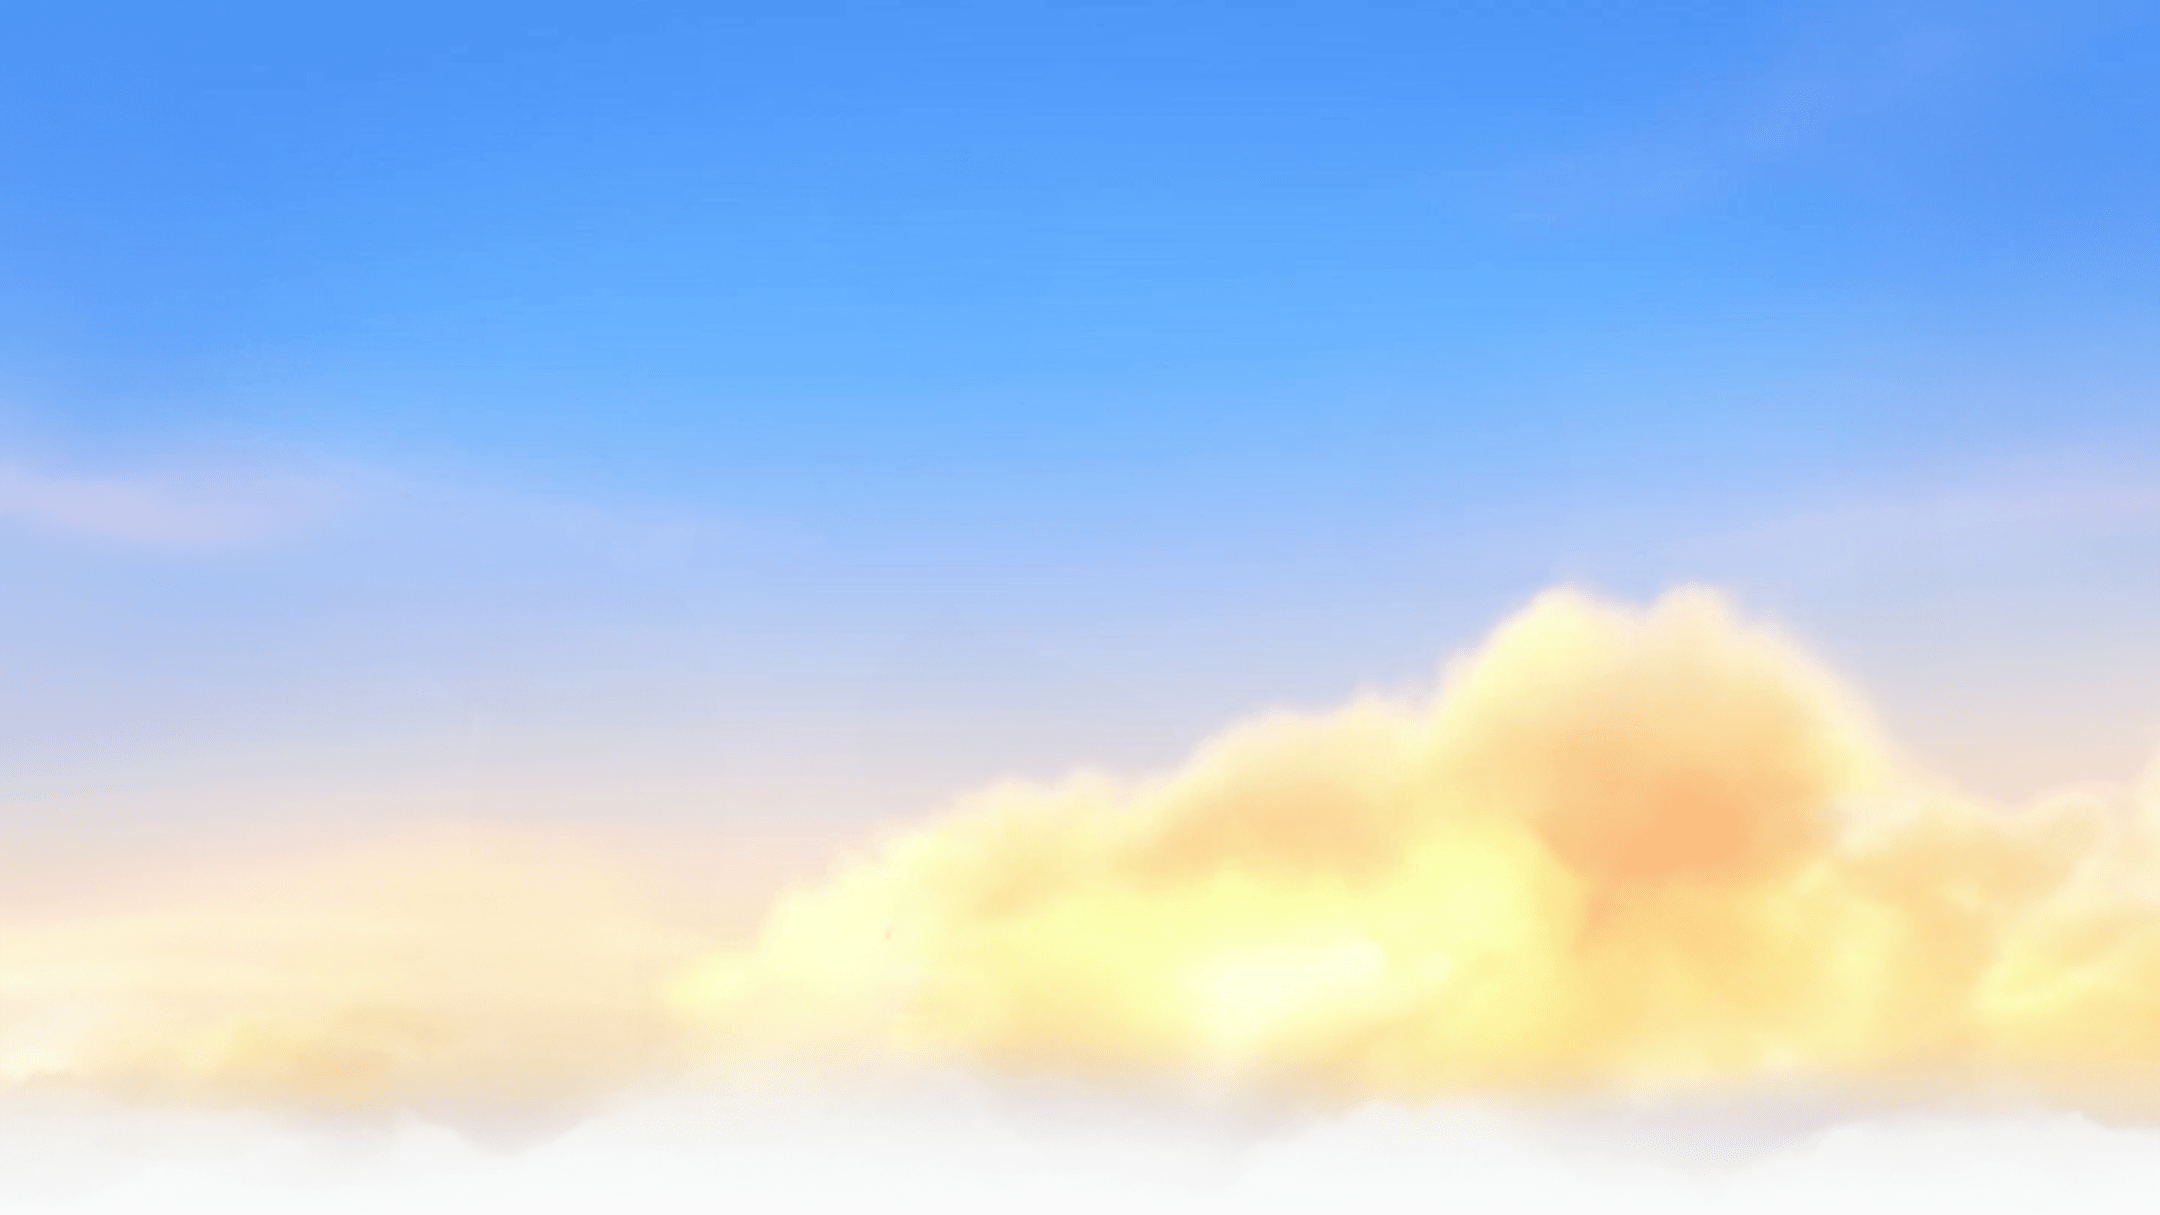
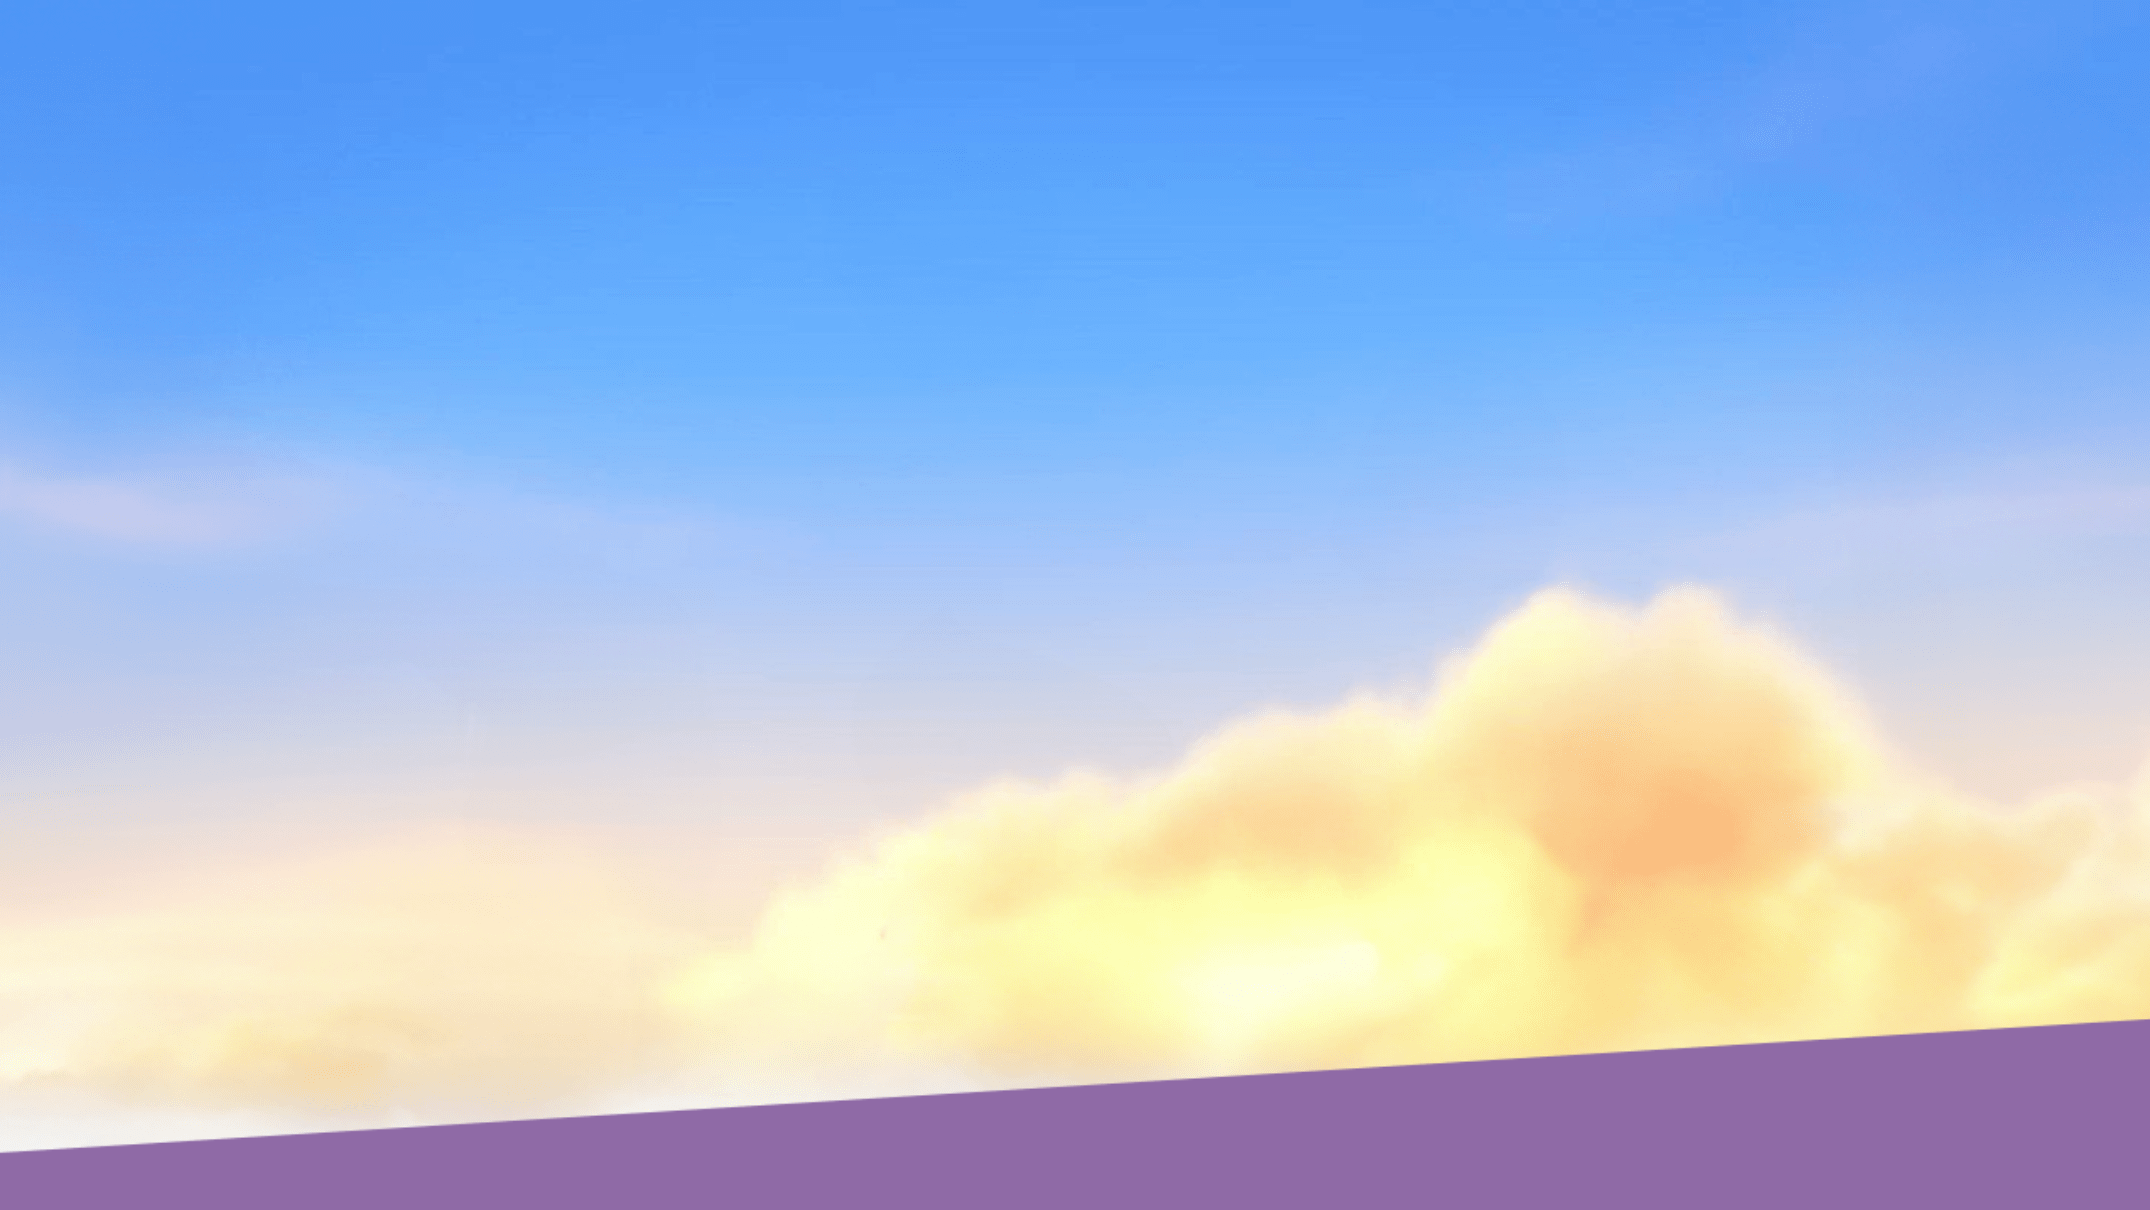
menu, fondos en imagenes

Changed region(s): [[0.0, 0.8256, 1.0, 1.0]]

diff --git a/TP4/EntregaFinal/css/main.css b/TP4/EntregaFinal/css/main.css
@@ -8,55 +8,53 @@ main{
     height: 56.25vw;
     background-image: url(../img/Fondo1x2.png);
     background-repeat: no-repeat;
-    background-size: 120%;
-    background-position-y: 25px;
-    background-position-x: -220px;
+    background-size: cover;
 }
 
 #conoce-a-spidey{
-    height: 33vw; 
     width: 100%;
+    background-image: url(../img/fondoDuende.png);
+    background-repeat: no-repeat;
+    background-size: cover;
+    display: flex;
+    flex-direction: row;
+    justify-content: center;
 }
-
-#conoce-a-spidey #fondoVioleta{
-    height: 65.9vw; 
-    width: 100vw;
-    position: relative;
-    top: -13%;
-}
-
 #conoce-a-spidey .columna{
-    margin: 0 auto;
+    width: 1080px;
     display: flex;
     flex-direction: row;
     flex-wrap: nowrap;
-    position: relative;
-    top: -182%;
-    z-index: 20;
+    
+}
+#texto-spidey-amigos{
+    max-width: 70%;
+    color: var(--blanco);
+}
+
+#texto-spidey-amigos h4{
+    font-size: 60px;
+    margin-bottom: 0px;
+}
+
+#texto-spidey-amigos p{
+    font-size: 20px;
 }
 
 #duende{
-    height: 921px;
-    width: 553px;
-    transform: translateX(-100px);
-    /* position: relative;
-    left: 66%; */
+    transform: translateX(-128px);
 }
 
-#texto-spidey-amigos{
-    width: 65%;
-}
 
-#texto-spidey-amigos img{
-    width: 751px;
-    height: 413px;
-    transform: rotateZ(-1deg);
-}
+
+
+
+
 
 #cards{
     width: 1080px;
     margin: 0 auto;
-    margin-top: 600px;
+    margin-top: 10px;
     display: flex;
     flex-direction: row;
     flex-wrap: nowrap;
@@ -71,6 +69,7 @@ main{
 }
 
 #cards div p{
+    font-size: 20px;
     max-width: 90%;
 }
 
@@ -82,7 +81,6 @@ main{
     position: inherit;
     padding-left: 35px;
     margin-top: -90px;
-
 }
 
 #ghost{
@@ -104,7 +102,7 @@ main{
     border-radius: 20px;
     object-fit: cover;
     transform-origin: 100% 50%;
-    transition: transform 0.5s;
+    transition: all 0.5s ease-in-out;
 }
 
 #ghost1{
@@ -126,13 +124,16 @@ main{
 }
 
 #ghost1:hover{
-    transform: rotateY(20deg) rotateZ(-17deg);
+    transform-origin: center center;
+    transform: rotateY(20deg) rotateZ(-17deg) scale(1.2);
 }
 
 #ghost2:hover{
-    transform: rotateY(20deg) rotateZ(-20deg) translateY(-22px);
+    transform-origin: center center;
+    transform: rotateY(20deg) rotateZ(-20deg) translateY(-22px) scale(1.2);
 }
 
 #ghost3:hover{
-    transform: rotateY(32deg) rotateZ(-20deg) rotateX(28deg)translateY(-42px) translateX(10px);
+    transform-origin: center center;
+    transform: rotateY(10deg) rotateZ(-20deg) translateY(-22px) scale(1.4);
 }

diff --git a/TP4/EntregaFinal/css/header.css b/TP4/EntregaFinal/css/header.css
@@ -1,6 +1,7 @@
 header{
     background-color: var(--celeste-principal);
     width: 100%;
+    max-width: 100%;
     display: flex;
     justify-content: center;
     position: fixed;
@@ -54,9 +55,35 @@ header .container{
 }
 
 #comprar:hover{
-    color: rgb(198, 17, 17);
-    -webkit-text-stroke: 2px rgb(198, 17, 17);
+    color: rgb(148, 10, 10);
+    -webkit-text-stroke: 2px rgb(148, 10, 10);
     background-color: var(--blanco);
     border: 8px solid #f00707;
-    filter: drop-shadow(4px 5px 0px rgb(198, 17, 17));
+    filter: drop-shadow(4px 5px 0px rgb(148, 10, 10));
+}
+
+header span{
+    position: absolute;
+    top: 105px;
+    color: var(--sombra-azul);
+    font-size: 35px;
+    background-color: var(--amarillo);
+    border: 4px solid var(--celeste-principal);
+    min-width: 220px;
+    padding: 4px 6px;
+    left: -30vw;
+    border-radius: 0 99px 99px 0;
+    filter: drop-shadow(4px 5px 0 var(--sombra-azul));
+    -webkit-text-stroke: 2px #02187E;
+    /* transform: translateX(-60vw); */
+}
+header span:hover{
+    color: rgb(148, 10, 10);
+    -webkit-text-stroke: 2px rgb(148, 10, 10);
+    background-color: var(--blanco);
+    border: 4px solid #f00707;
+    filter: drop-shadow(4px 5px 0px rgb(148, 10, 10));
+}
+.desplegar-menu-btn{
+    left: 0vw;
 }

diff --git a/TP4/EntregaFinal/js/header.js b/TP4/EntregaFinal/js/header.js
@@ -1,3 +1,15 @@
+let menuBtn = document.querySelector(".btn-menu");
+let opcionesMenu = document.querySelectorAll(".menu-btn");
+
+menuBtn.addEventListener("click", function(){
+
+
+
+  for (let index = 0; index < opcionesMenu.length; index++) {
+    opcionesMenu[index].classList.toggle("desplegar-menu-btn");
+  }
+});
+
 window.onscroll = function() {scrollFunction()};
 
 function scrollFunction() {
@@ -15,3 +27,11 @@ function scrollFunction() {
     imgCont.style.width = "590px";
   }
 }
+
+
+document.addEventListener('DOMContentLoaded', function agregarTransicion() {
+  for (let index = 0; index < opcionesMenu.length; index++) {
+    opcionesMenu[index].style.transition = `all ${0.3 + index / 7}s ease-in-out`;
+    opcionesMenu[index].style.top = `${105 + index * 56.25}px`;
+  }
+});

diff --git a/TP4/EntregaFinal/index.html b/TP4/EntregaFinal/index.html
@@ -27,6 +27,13 @@
             
             <button id="comprar">COMPRAR</button>
         </div>
+
+        
+        <span class="menu-btn">Inicio</span>
+        <span class="menu-btn">Programas</span>
+        <span class="menu-btn">Juegos</span>
+        <span class="menu-btn">Configuracion</span>
+        
     </header>
 <main id="pagina">
 
@@ -37,7 +44,6 @@
     </section>
 
     <section id="conoce-a-spidey" >
-        <img id="fondoVioleta" src="img/RectanguloBajo.png">
         <div class="columna">
             <div id="texto-spidey-amigos">
                 <h4>
@@ -50,7 +56,6 @@
             </div>
             <img id="duende" src="img/duende.png" alt="">
         </div>
-        
     </section>
 
     <section>

diff --git a/TP4/EntregaFinal/css/style.css b/TP4/EntregaFinal/css/style.css
@@ -4,13 +4,14 @@
     --sombra-azul: #02187E;
     --fuente-azul: #02187E;
     --amarillo: #FFE901;
-    --blanco: #f5f5f5; 
+    --blanco: #FFFFFF; 
 }
 
 
 body{
     height: fit-content;
     max-width: 100vw;
+    font-family: Lato;
 }
 
 #section1{
